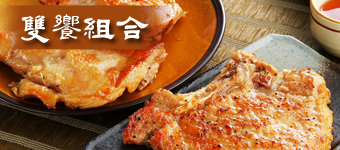
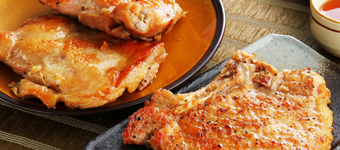
123

Changed region(s): [[0.0, 0.0267, 0.5, 0.3467]]

diff --git a/resources/views/pages/landingPage.blade.php b/resources/views/pages/landingPage.blade.php
@@ -28,7 +28,7 @@
 		<div class="product col-md-4 col-12">
 			<div class="P- P-pork">
 				<a href="{{route('productCategory.show',1)}}">
-					<img src="{{asset('images/productsIMG/123.png')}}" alt="">
+					<img src="{{asset('images/productsIMG/pork.png')}}" alt="">
 				</a>
 				<div class="P-buy">購 買</div>
 			</div>
